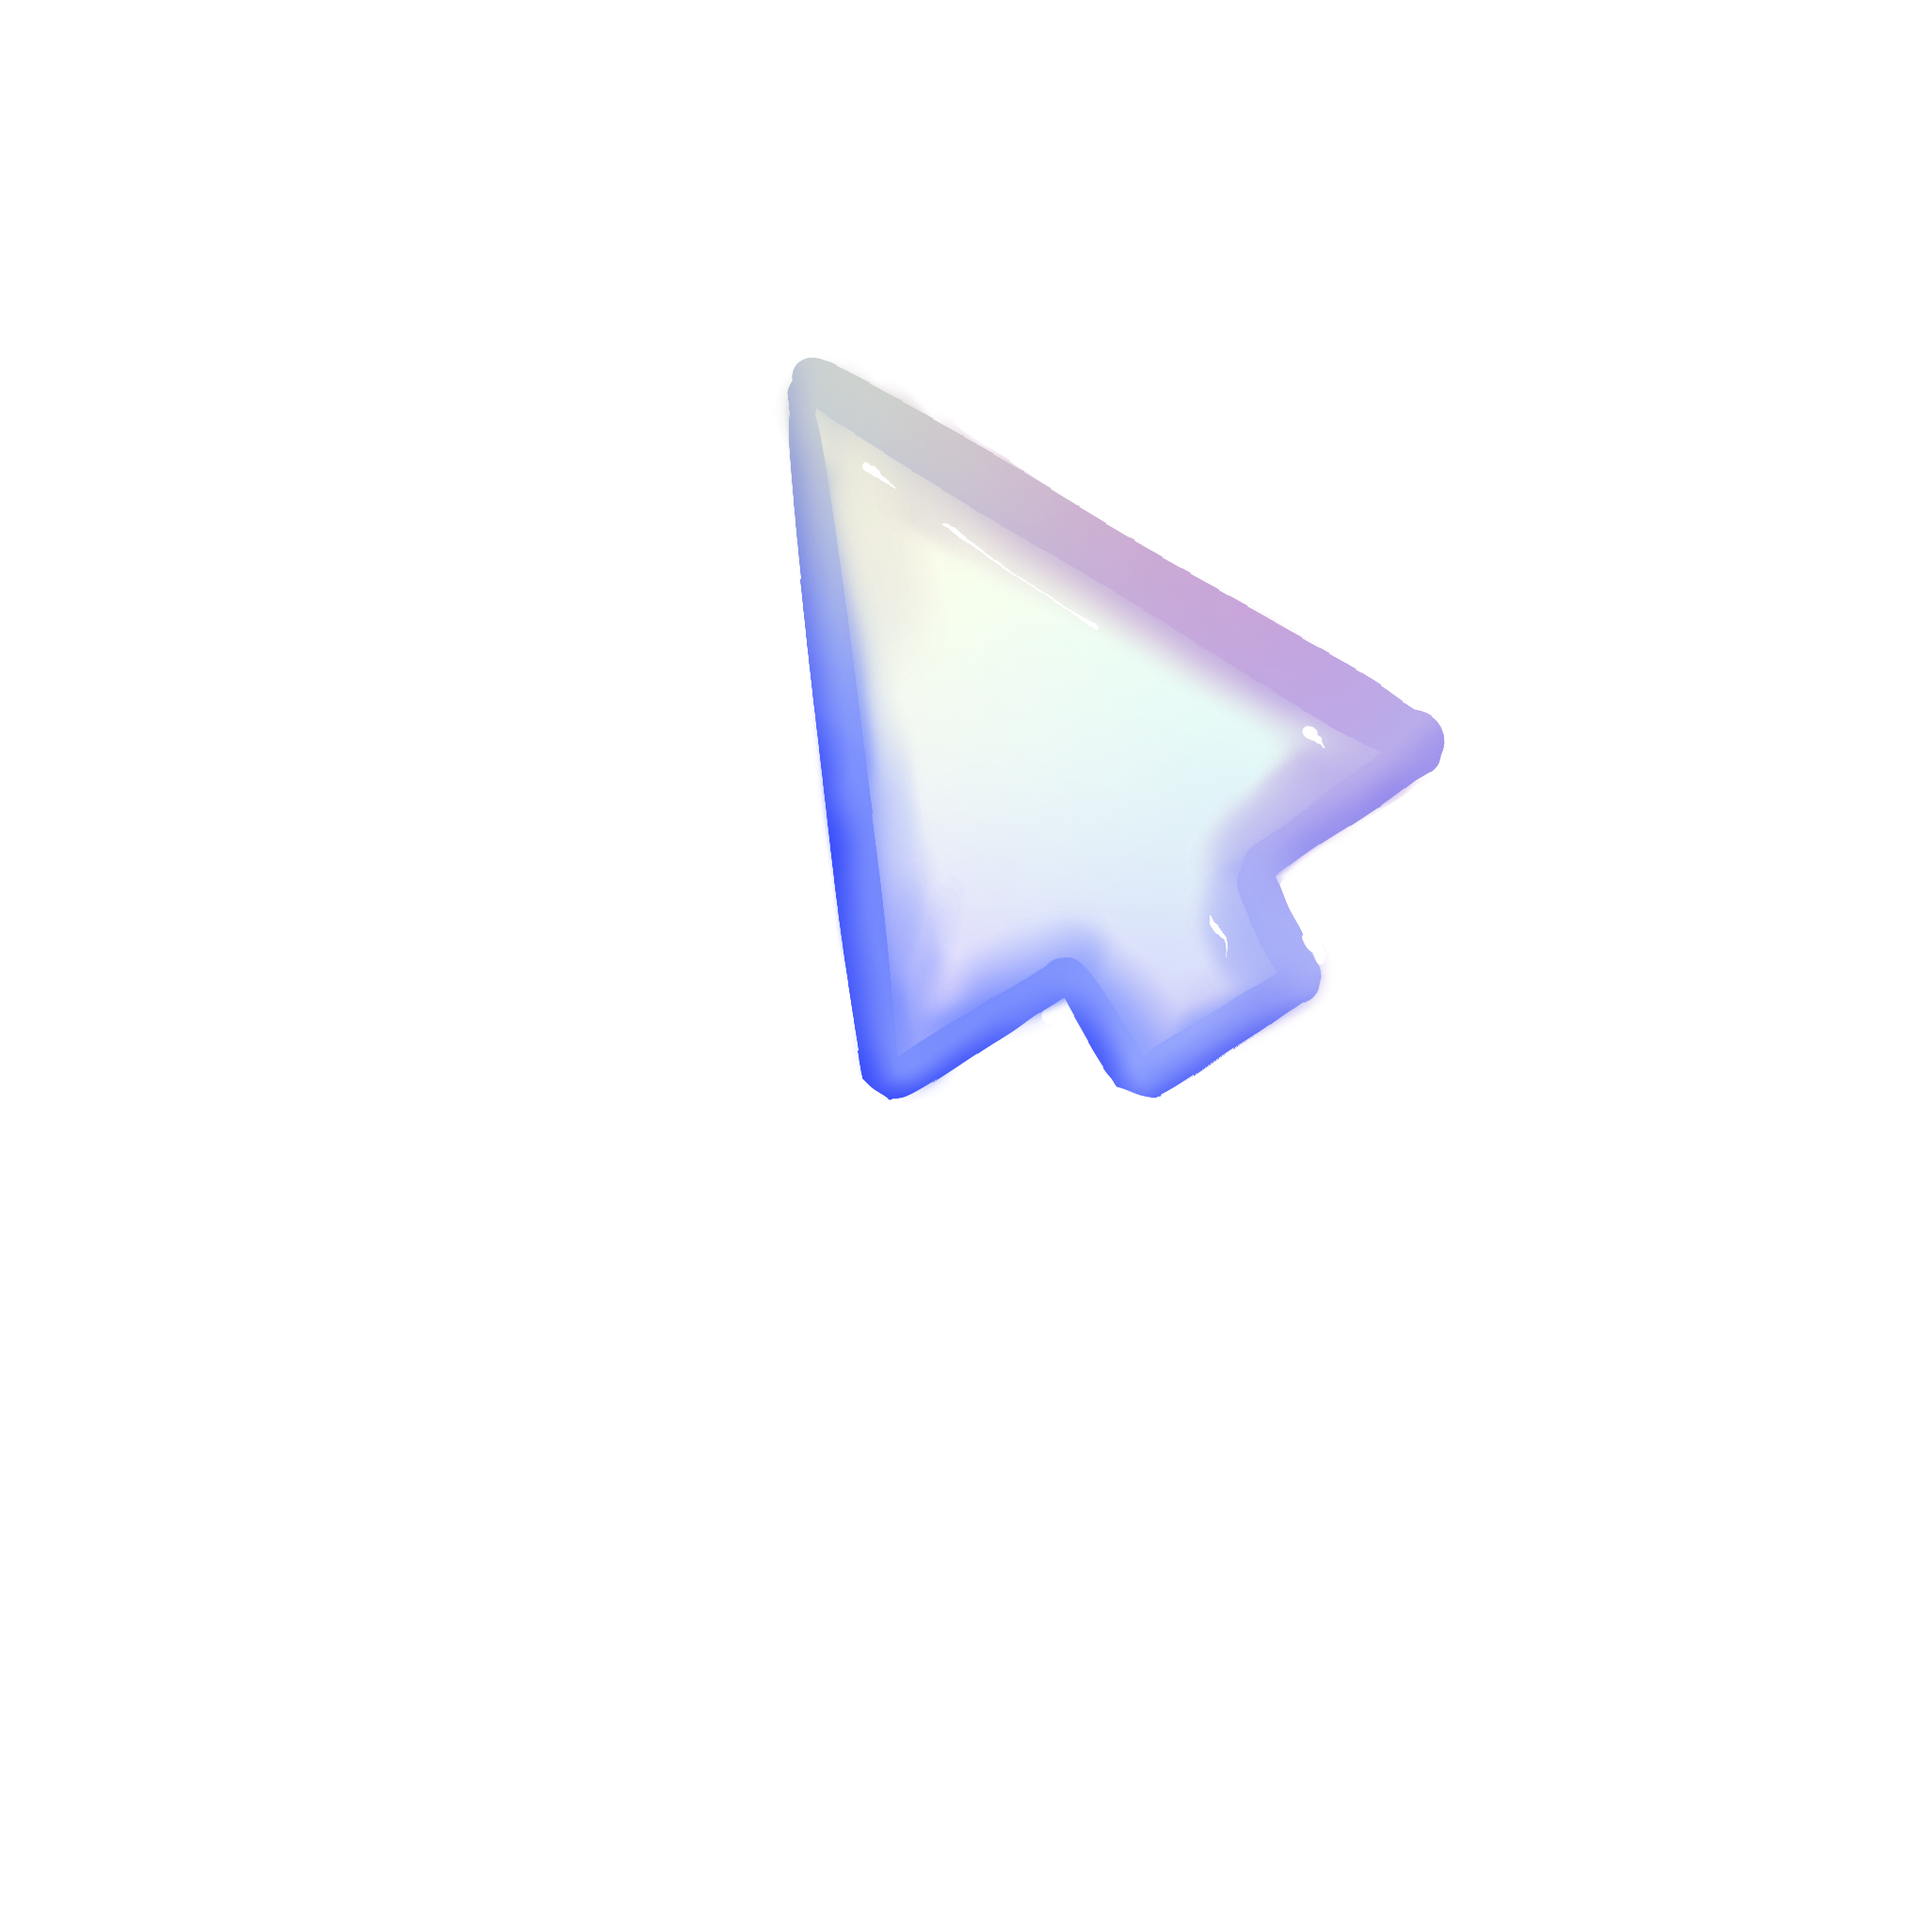
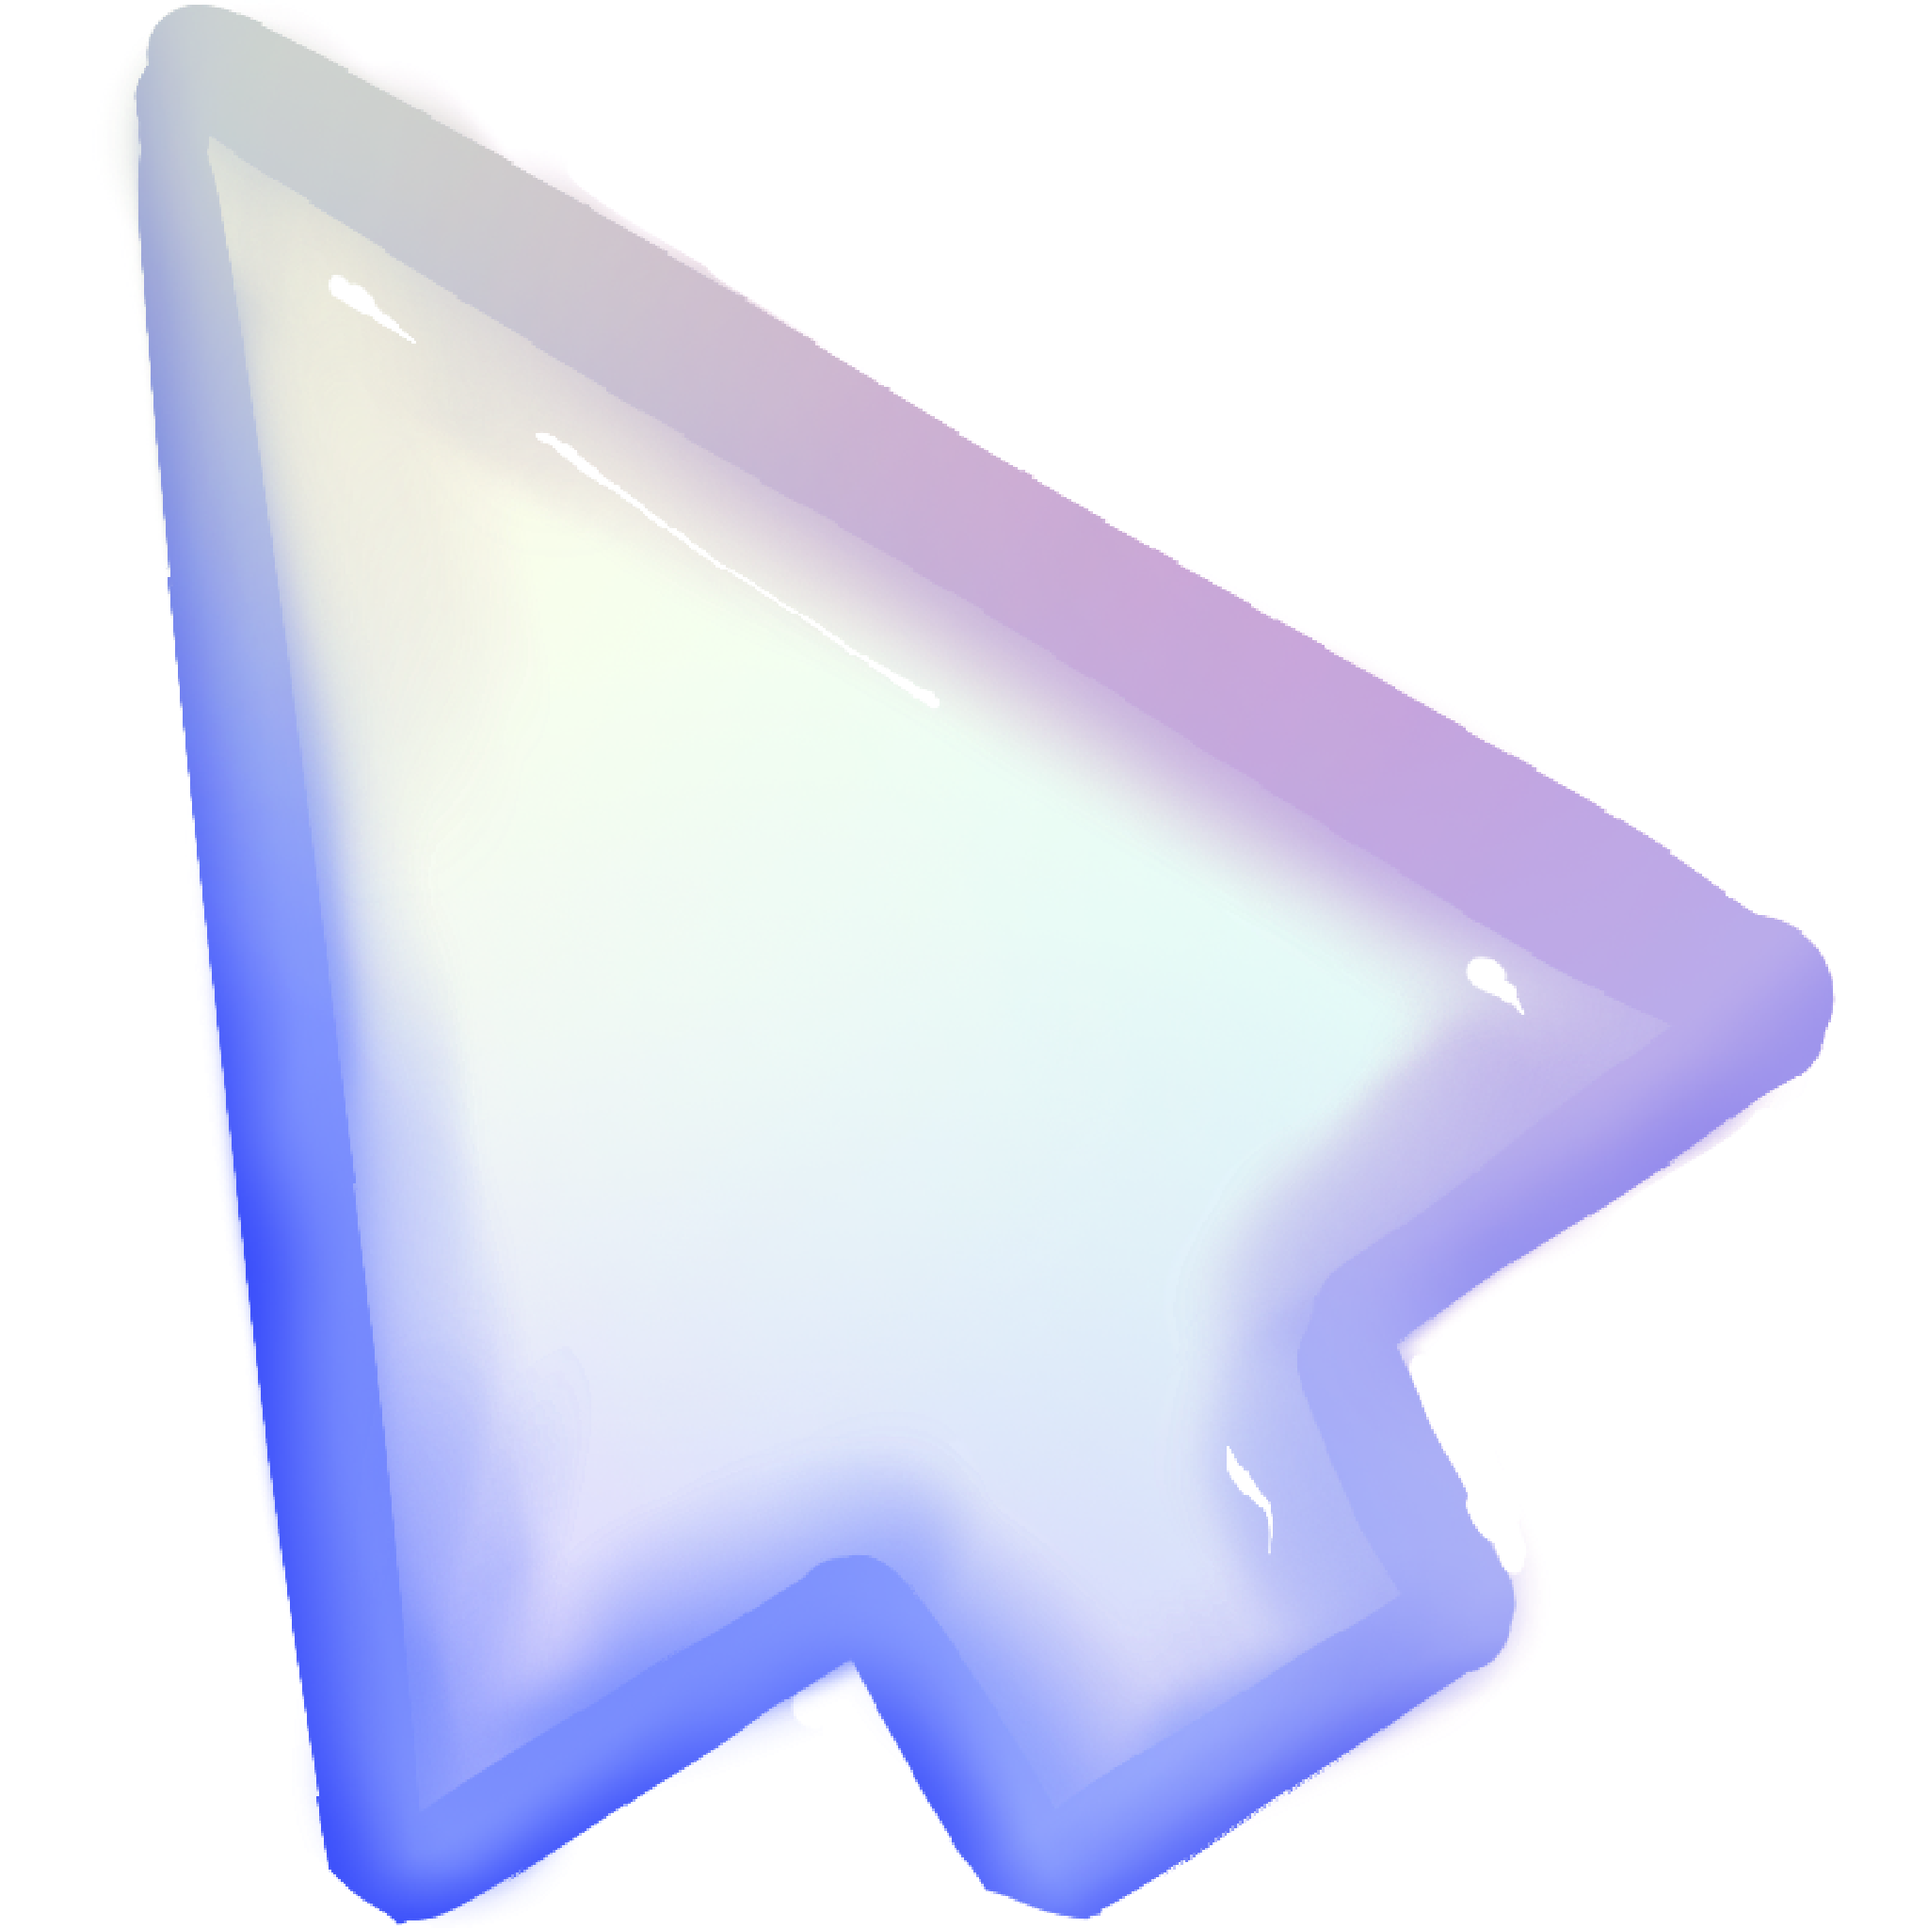
Cursor and Ripple

diff --git a/Assets/Scripts/Alex_Test/Ripple.cs b/Assets/Scripts/Alex_Test/Ripple.cs
@@ -1,0 +1,34 @@
+using UnityEngine;
+
+public class Ripple : MonoBehaviour
+{
+    [Header("Ripple Settings")]
+    public float expandSpeed = 3f; // How fast the circle grows
+    public float fadeSpeed = 2f;   // How fast the circle becomes invisible
+
+    private SpriteRenderer spriteRenderer;
+    private Color rippleColor;
+
+    void Start()
+    {
+        // Grab the SpriteRenderer and its starting color
+        spriteRenderer = GetComponent<SpriteRenderer>();
+        rippleColor = spriteRenderer.color;
+    }
+
+    void Update()
+    {
+        // 1. Expand the size (Scale) over time
+        transform.localScale += Vector3.one * expandSpeed * Time.deltaTime;
+
+        // 2. Fade the transparency (Alpha) over time
+        rippleColor.a -= fadeSpeed * Time.deltaTime;
+        spriteRenderer.color = rippleColor;
+
+        // 3. Destroy the object once it is completely invisible to save memory
+        if (rippleColor.a <= 0f)
+        {
+            Destroy(gameObject);
+        }
+    }
+}

diff --git a/Assets/Scripts/Alex_Test/ClickSpawner.cs b/Assets/Scripts/Alex_Test/ClickSpawner.cs
@@ -1,0 +1,26 @@
+using UnityEngine;
+using UnityEngine.InputSystem;
+
+public class ClickSpawner : MonoBehaviour
+{
+    public GameObject ripplePrefab;
+    
+    private void Awake() 
+    {
+        DontDestroyOnLoad(this.gameObject);
+    }
+
+    void Update()
+    {
+        if (Mouse.current.leftButton.wasPressedThisFrame)
+        {
+            Vector3 mouseScreenPosition = Mouse.current.position.ReadValue();
+
+            Vector3 mouseWorldPosition = UnityEngine.Camera.main.ScreenToWorldPoint(mouseScreenPosition);
+
+            mouseWorldPosition.z = 0f;
+
+            Instantiate(ripplePrefab, mouseWorldPosition, Quaternion.identity);
+        }
+    }
+}
